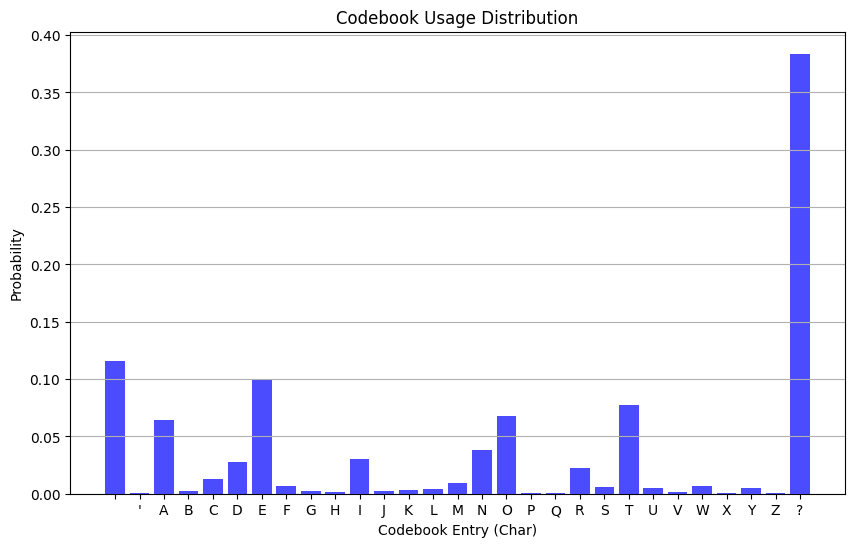
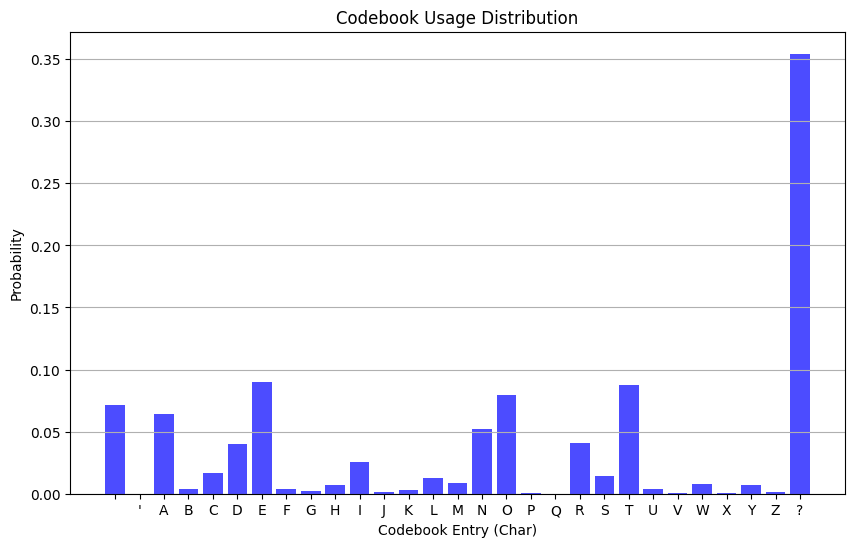
updated

diff --git a/src/models/codebook.py b/src/models/codebook.py
@@ -1,0 +1,54 @@
+import torch
+import torch.nn as nn
+
+from transformers import AutoTokenizer, AutoModel
+from sklearn.decomposition import PCA
+import numpy as np 
+import torch.nn.functional as F
+        
+class Codebook(nn.Module):
+        
+    def __init__(self, vocab, model_name="meta-llama/Llama-3.2-1B-Instruct"):
+
+        super(Codebook, self).__init__()
+        
+        self.vocab = vocab
+        self.model_name = model_name
+        
+        # Initialize the model and tokenizer 
+        tokenizer = AutoTokenizer.from_pretrained(model_name)
+        model = AutoModel.from_pretrained(model_name)
+
+        # Create the embedding matrix
+        embedding = nn.Embedding(len(vocab), model.embed_tokens.weight.shape[1], padding_idx=0)
+        # Initialize the embedding matrix with the pretrained model's embedding matrix with detaching the gradients
+        for i, char in enumerate(vocab):
+            tok = tokenizer(char, add_special_tokens=False)["input_ids"][0] # returns the list of token ids, 
+            if char != "p": # not padding token 
+                embedding.weight.data[i] = model.embed_tokens(torch.tensor(tok)).detach().clone()
+            else:
+                embedding.weight.data[i] *= 0.0 # padding token embedding is zero
+                
+        self.embedding = embedding
+        # p2 Normalize the embedding matrix
+        self.embedding.weight.data = F.normalize(self.embedding.weight.data, p=2, dim=1)
+        
+        # Remove the model and tokenizer
+        del model
+        del tokenizer
+
+    def forward(self, x): # x: (b,t) tensor
+        return self.embedding(x) # (b,t,c)
+
+
+if __name__ == "__main__":
+    # Test codebook
+    vocab = ['p', ' ', "'", 'A', 'B', 'C', 'D', 'E', 'F', 'G', 'H', 'I', 'J', 'K', 'L', 'M', 'N', 'O', 'P', 'Q', 'R', 'S', 'T', 'U', 'V', 'W', 'X', 'Y', 'Z', '?']
+    print(f"vocab: {vocab}")
+    print(f"vocab size: {len(vocab)}")
+    
+
+    codebook = Codebook(vocab)
+    print(codebook)
+    x = torch.randint(0, len(vocab), (2, 3))
+    print(codebook(x).shape)
